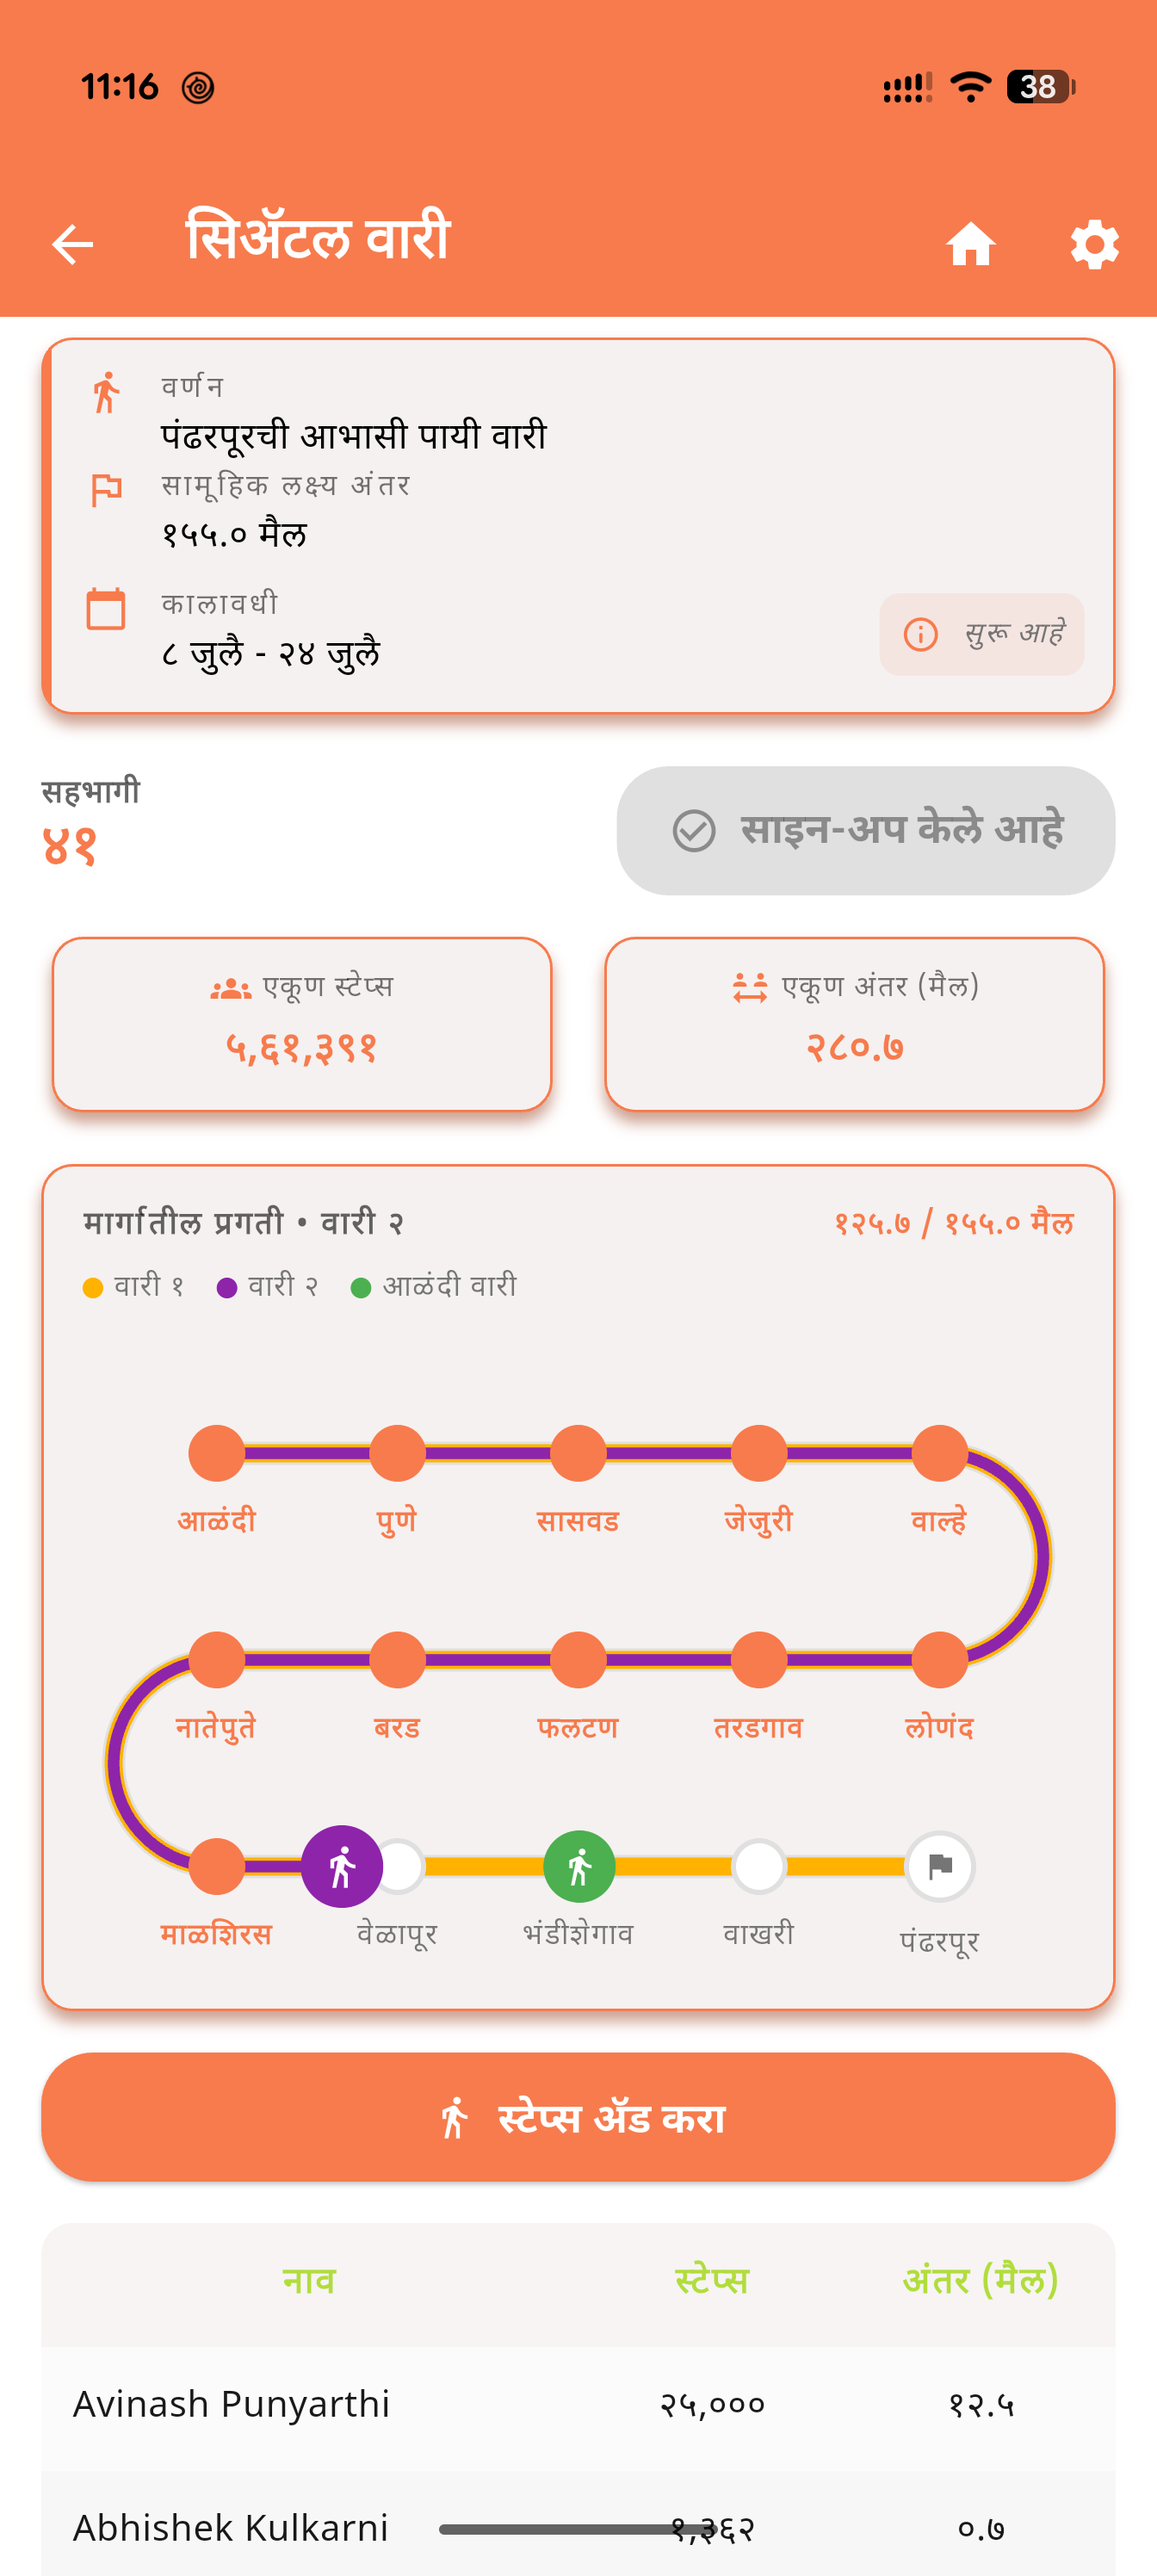
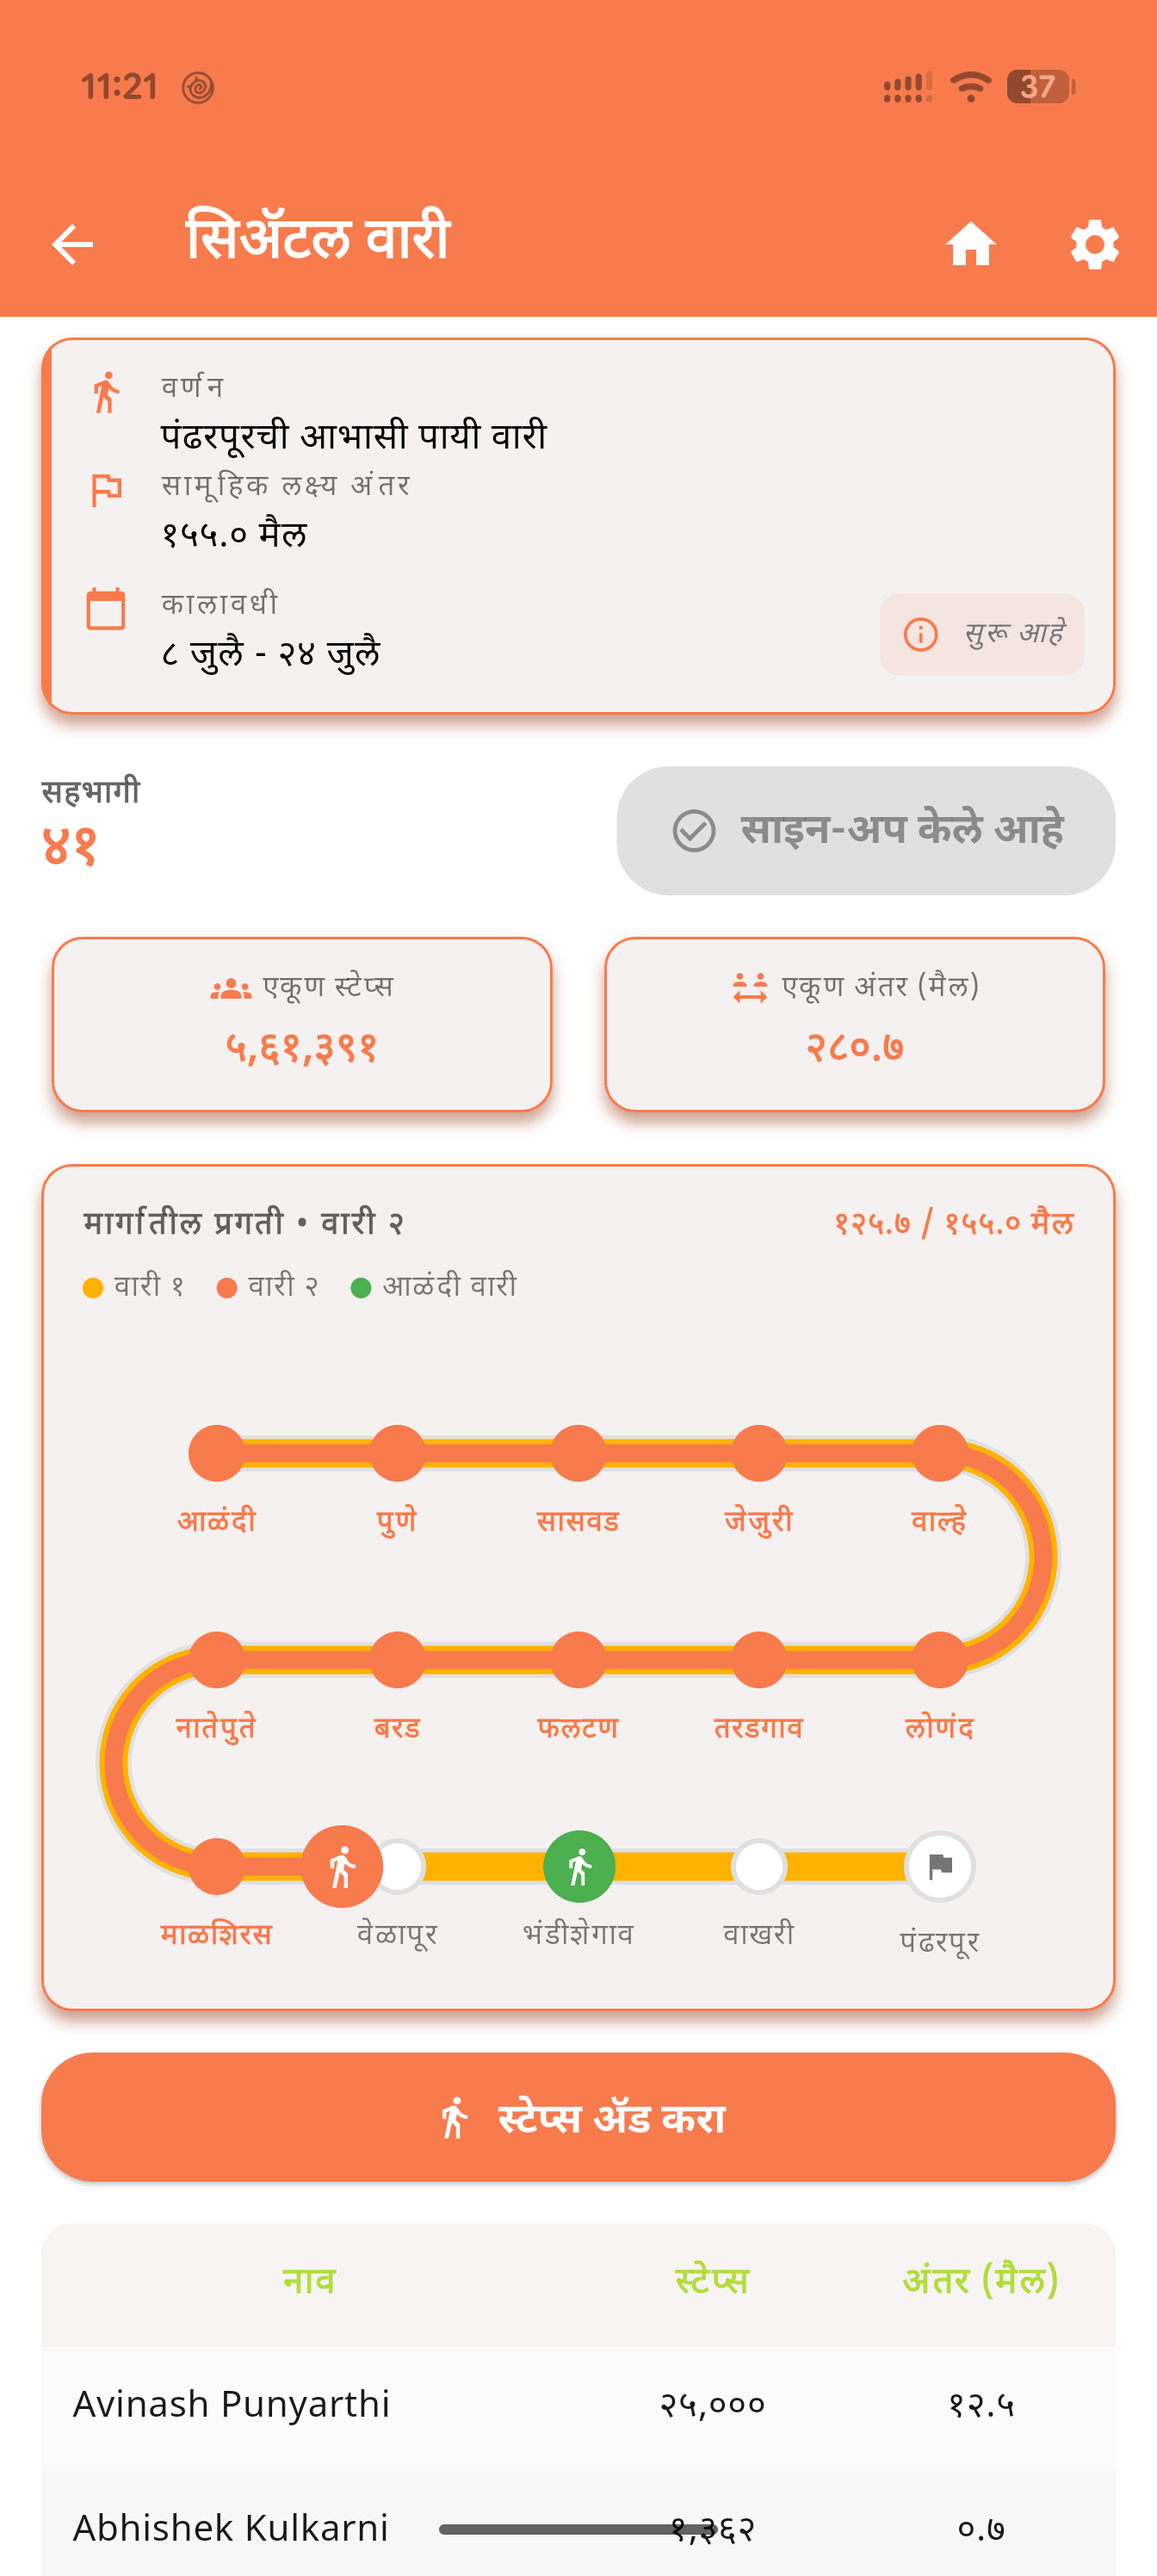
refactor(vaari): use high-contrast Royal Blue for Completed Vaari 1 and bold 24px/18px/12px/6px track stroke hierarchy

diff --git a/lib/vaari/widgets/vaari_route_progress.dart b/lib/vaari/widgets/vaari_route_progress.dart
@@ -80,10 +80,10 @@ class VaariRouteProgress extends StatelessWidget {
     );
 
     // Color assignments:
-    // - Completed Vaari 1: Gold / Amber
+    // - Completed Vaari 1: Royal Blue (high contrast against Saffron)
     // - Completed Vaari 2: Deep Purple
     // - Current Active Vaari: Always Primary Saffron
-    const goldColor = Color(0xFFFFB300); // Gold / Amber for Completed Vaari 1
+    const blueColor = Color(0xFF1E88E5); // Royal Blue for Completed Vaari 1
     const purpleColor = Color(0xFF8E24AA); // Deep Purple for Completed Vaari 2
     final primarySaffron = theme.colorScheme.primary; // Current Vaari
 
@@ -96,11 +96,11 @@ class VaariRouteProgress extends StatelessWidget {
       lap2Color = primarySaffron;
       lap3Color = primarySaffron;
     } else if (lapProgress.lapNumber == 2) {
-      lap1Color = goldColor;
+      lap1Color = blueColor;
       lap2Color = primarySaffron;
       lap3Color = primarySaffron;
     } else {
-      lap1Color = goldColor;
+      lap1Color = blueColor;
       lap2Color = purpleColor;
       lap3Color = primarySaffron;
     }
@@ -314,7 +314,7 @@ class _VaariRouteTimeline extends StatelessWidget {
         LapTrackLayer(
           arcLength: layout.arcLengthForMiles(lap1Miles),
           color: lap1Color,
-          strokeWidth: 11.0,
+          strokeWidth: 18.0,
         ),
       );
     }
@@ -323,7 +323,7 @@ class _VaariRouteTimeline extends StatelessWidget {
         LapTrackLayer(
           arcLength: layout.arcLengthForMiles(lap2Miles),
           color: lap2Color,
-          strokeWidth: 7.0,
+          strokeWidth: 12.0,
         ),
       );
     }
@@ -332,7 +332,7 @@ class _VaariRouteTimeline extends StatelessWidget {
         LapTrackLayer(
           arcLength: layout.arcLengthForMiles(lap3Miles),
           color: lap3Color,
-          strokeWidth: 3.5,
+          strokeWidth: 6.0,
         ),
       );
     }
@@ -498,7 +498,7 @@ class _RoutePathPainter extends CustomPainter {
     final basePaint = Paint()
       ..color = baseTrackColor
       ..style = PaintingStyle.stroke
-      ..strokeWidth = 14.0
+      ..strokeWidth = 24.0
       ..strokeCap = StrokeCap.round;
     canvas.drawPath(layout.path, basePaint);
 
